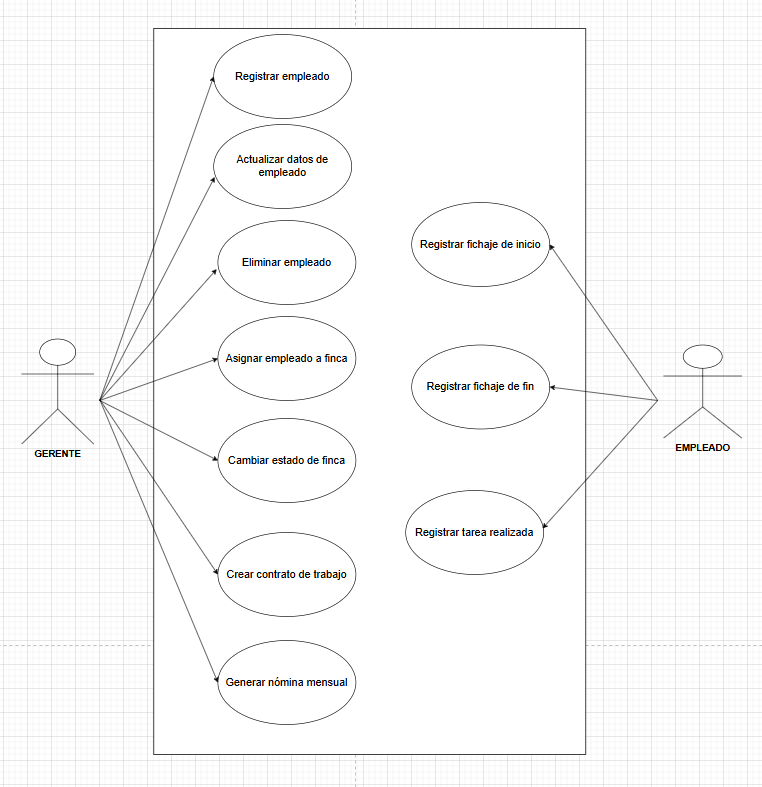
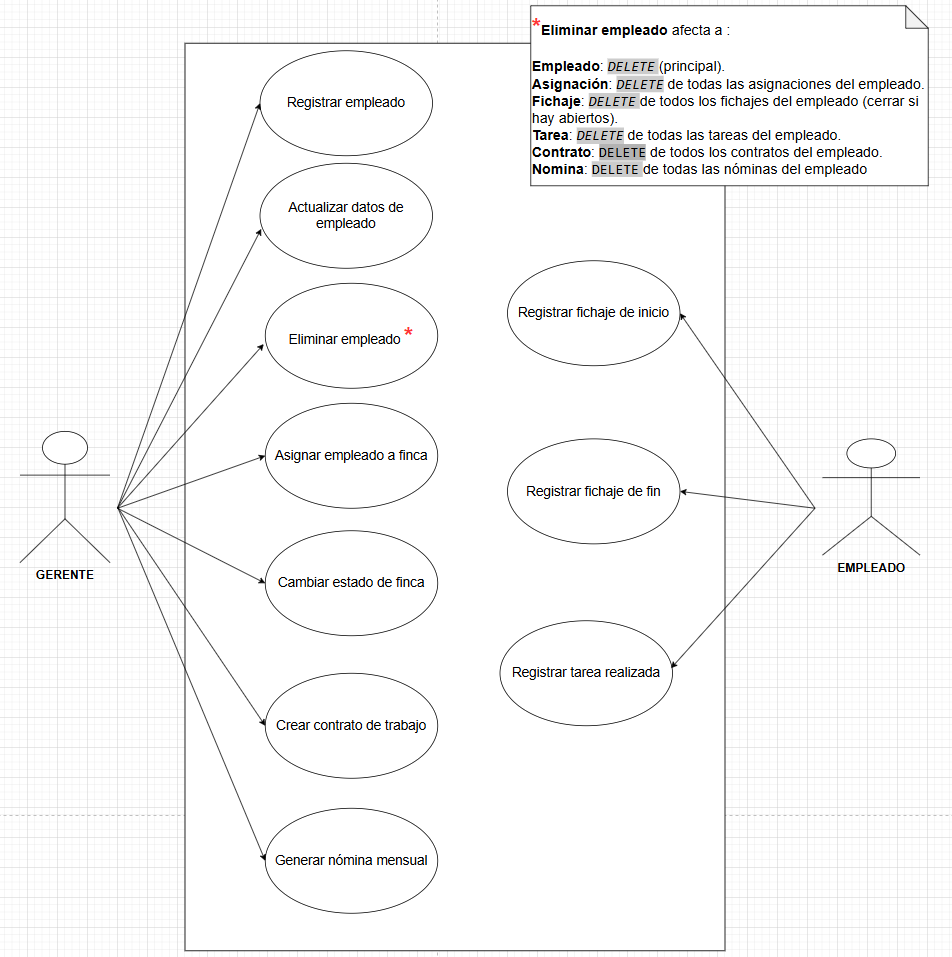
cambios

diff --git a/src/main/java/com/example/AgroManager_DiegoHugo/data/model/Empleado.java b/src/main/java/com/example/AgroManager_DiegoHugo/data/model/Empleado.java
@@ -19,22 +19,22 @@ public class Empleado {
     @Column(nullable = false)
     private Boolean activo = true;
 
-    @OneToOne(optional = false)
+    @OneToOne(optional = false, cascade = CascadeType.REMOVE, orphanRemoval = true)
     private Usuario usuario;
 
-    @OneToMany(mappedBy = "empleado")
+    @OneToMany(mappedBy = "empleado", cascade = CascadeType.ALL, orphanRemoval = true)
     private List<Contrato> contratos;
 
-    @OneToMany(mappedBy = "empleado")
+    @OneToMany(mappedBy = "empleado", cascade = CascadeType.ALL, orphanRemoval = true)
     private List<Fichaje> fichajes;
 
-    @OneToMany(mappedBy = "empleado")
+    @OneToMany(mappedBy = "empleado", cascade = CascadeType.ALL, orphanRemoval = true)
     private List<Tarea> tareas;
 
-    @OneToMany(mappedBy = "empleado")
+    @OneToMany(mappedBy = "empleado", cascade = CascadeType.ALL, orphanRemoval = true)
     private List<Nomina> nominas;
 
-    @OneToMany(mappedBy = "empleado")
+    @OneToMany(mappedBy = "empleado", cascade = CascadeType.ALL, orphanRemoval = true)
     private List<Asignacion> asignaciones;
 
     public Empleado() {}
@@ -48,12 +48,31 @@ public class Empleado {
 
     // Getters y setters
     public Long getId() { return id; }
+
     public String getDni() { return dni; }
     public void setDni(String dni) { this.dni = dni; }
+
     public String getNombre() { return nombre; }
     public void setNombre(String nombre) { this.nombre = nombre; }
+
     public Boolean getActivo() { return activo; }
     public void setActivo(Boolean activo) { this.activo = activo; }
+
     public Usuario getUsuario() { return usuario; }
     public void setUsuario(Usuario usuario) { this.usuario = usuario; }
+
+    public List<Contrato> getContratos() { return contratos; }
+    public void setContratos(List<Contrato> contratos) { this.contratos = contratos; }
+
+    public List<Fichaje> getFichajes() { return fichajes; }
+    public void setFichajes(List<Fichaje> fichajes) { this.fichajes = fichajes; }
+
+    public List<Tarea> getTareas() { return tareas; }
+    public void setTareas(List<Tarea> tareas) { this.tareas = tareas; }
+
+    public List<Nomina> getNominas() { return nominas; }
+    public void setNominas(List<Nomina> nominas) { this.nominas = nominas; }
+
+    public List<Asignacion> getAsignaciones() { return asignaciones; }
+    public void setAsignaciones(List<Asignacion> asignaciones) { this.asignaciones = asignaciones; }
 }

diff --git a/src/test/java/com/example/AgroManager_DiegoHugo/EliminarEmpleadoTest.java b/src/test/java/com/example/AgroManager_DiegoHugo/EliminarEmpleadoTest.java
@@ -15,16 +15,36 @@ import static org.assertj.core.api.Assertions.assertThat;
 @Transactional
 class EliminarEmpleadoTest {
 
-    @Autowired private EmpleadoRepository empleadoRepo;
+    @Autowired
+    EmpleadoRepository empleadoRepo;
+    @Autowired
+    UsuarioRepository usuarioRepo;
+    @Autowired
+    TareaRepository tareaRepo;
+    @Autowired
+    NominaRepository nominaRepo;
+    @Autowired
+    FichajeRepository fichajeRepo;
+    @Autowired
+    AsignacionRepository asignacionRepo;
+    @Autowired
+    ContratoRepository contratoRepo;
 
     @Test
     void eliminarEmpleadoExistente() {
-        Empleado emp = empleadoRepo.findAll().get(0);
-        Long id = emp.getId();
+        Empleado emp = empleadoRepo.findAll().get(1);
+        Long empId = emp.getId();
+        Long userId = emp.getUsuario().getId();
 
-        empleadoRepo.deleteById(id);
+        empleadoRepo.deleteById(empId);
         empleadoRepo.flush();
 
-        assertThat(empleadoRepo.findById(id)).isEmpty();
+        assertThat(empleadoRepo.findById(empId)).isEmpty();
+        assertThat(usuarioRepo.findById(userId)).isEmpty();
+        assertThat(tareaRepo.findByEmpleadoId(empId)).isEmpty();
+        assertThat(nominaRepo.findByEmpleadoIdOrderByPeriodoInicioDesc(empId)).isEmpty();
+        assertThat(fichajeRepo.findByEmpleadoId(empId)).isEmpty();
+        assertThat(asignacionRepo.findByEmpleadoId(empId)).isEmpty();
+        assertThat(contratoRepo.findByEmpleadoId(empId, org.springframework.data.domain.Sort.unsorted())).isEmpty();
     }
 }

diff --git a/src/test/java/com/example/AgroManager_DiegoHugo/CrearContratoTest.java b/src/test/java/com/example/AgroManager_DiegoHugo/CrearContratoTest.java
@@ -1,4 +1,39 @@
 package com.example.AgroManager_DiegoHugo;
 
-public class CrearContratoTest {
+import com.example.AgroManager_DiegoHugo.data.model.*;
+import com.example.AgroManager_DiegoHugo.data.repositories.*;
+import org.junit.jupiter.api.Test;
+import org.springframework.beans.factory.annotation.Autowired;
+import org.springframework.boot.test.autoconfigure.jdbc.AutoConfigureTestDatabase;
+import org.springframework.boot.test.context.SpringBootTest;
+import org.springframework.transaction.annotation.Transactional;
+
+import java.math.BigDecimal;
+import java.time.LocalDate;
+import static org.assertj.core.api.Assertions.assertThat;
+
+@SpringBootTest
+@AutoConfigureTestDatabase(replace = AutoConfigureTestDatabase.Replace.NONE)
+@Transactional
+class CrearContratoTest {
+
+    @Autowired private ContratoRepository contratoRepo;
+    @Autowired private EmpleadoRepository empleadoRepo;
+
+    @Test
+    void crearContratoIndefinidoParaEmpleado() {
+        Empleado emp = empleadoRepo.findAll().get(0);
+        Contrato contrato = new Contrato(
+                TipoContrato.INDEFINIDO,
+                LocalDate.now(),
+                null,
+                new BigDecimal("1300.00"),
+                new BigDecimal("12.50"),
+                emp
+        );
+
+        Contrato saved = contratoRepo.save(contrato);
+        assertThat(saved.getId()).isNotNull();
+        assertThat(saved.getTipo()).isEqualTo(TipoContrato.INDEFINIDO);
+    }
 }

diff --git a/src/test/java/com/example/AgroManager_DiegoHugo/RegistrarEmpleadoTest.java b/src/test/java/com/example/AgroManager_DiegoHugo/RegistrarEmpleadoTest.java
@@ -24,8 +24,11 @@ class RegistrarEmpleadoTest {
     void registrarEmpleado_conUsuarioActivo() {
         Usuario usuario = usuarioRepo.save(new Usuario("emp_" + UUID.randomUUID(), "hashedpwd", Rol.EMPLEADO, true));
         Empleado empleado = new Empleado("98765432Z", "Juan Pérez", true, usuario);
+        Usuario usuario1 = usuarioRepo.save(new Usuario("lolo" + UUID.randomUUID(), "hashedpwd", Rol.EMPLEADO, true));
+        Empleado empleado1 = new Empleado("12345678A", "DIEGO DURAN", true, usuario1);
 
         Empleado saved = empleadoRepo.save(empleado);
+        Empleado savedd = empleadoRepo.save(empleado1);
         assertThat(saved.getId()).isNotNull();
         assertThat(saved.getUsuario().isActivo()).isTrue();
         assertThat(saved.getUsuario().getRol()).isEqualTo(Rol.EMPLEADO);

diff --git a/src/test/java/com/example/AgroManager_DiegoHugo/RegistrarTareaTest.java b/src/test/java/com/example/AgroManager_DiegoHugo/RegistrarTareaTest.java
@@ -1,4 +1,4 @@
-package com.example.AgroManager_DiegoHugo.testsCasosUso;
+package com.example.AgroManager_DiegoHugo;
 
 import com.example.AgroManager_DiegoHugo.data.model.*;
 import com.example.AgroManager_DiegoHugo.data.repositories.*;

diff --git a/README.md b/README.md
@@ -1,5 +1,4 @@
-# ENTREGA 02
-## ACCESO DE DATOS
+## PROYECTO MyDAI: AgroManager
 
 ---
 
@@ -81,7 +80,6 @@ de **actualizar el estado de las fincas** desde el terreno.
 
 La base de datos de **AgroManager** se implementa mediante **Docker** para asegurar un entorno reproducible, aislado y fácil de desplegar.
 El contenedor principal utiliza **MySQL** como sistema gestor de base de datos y se comunica con la aplicación **Spring Boot** a través de la red interna definida en el archivo `docker-compose.yml`.
-Ademas hay un script .sql en la carpeta `docker/mysql/initdb` que crea la base de datos `agromanager` al iniciar el contenedor.
 
 
 ### ⚙ Pasos de despliegue
